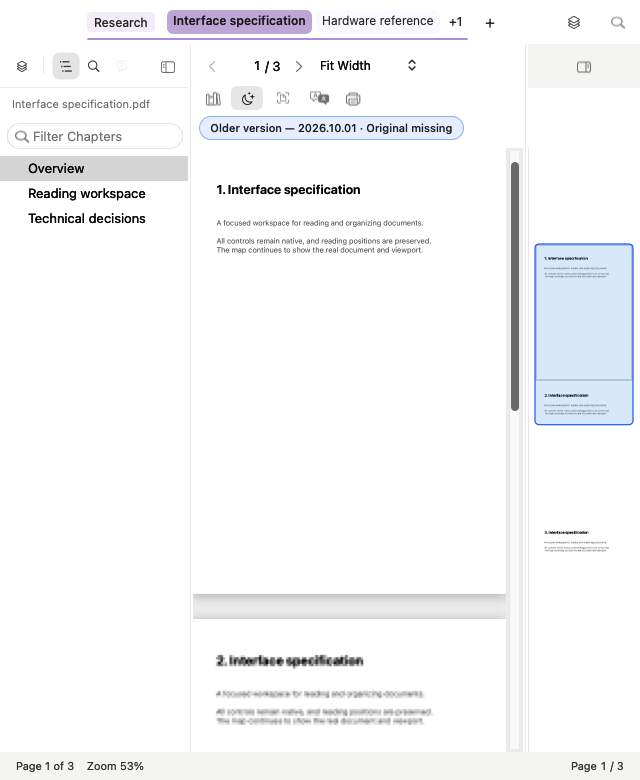
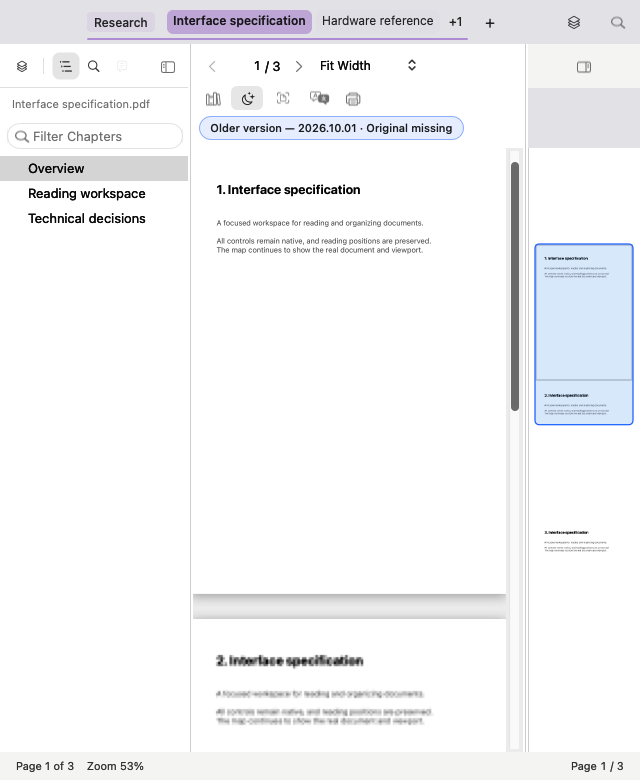
Refresh native workspace evidence with final titlebar palette
Composite offscreen views over the actual window background so headless evidence faithfully includes the shared titlebar color. All workspace probe cases pass.

Changed region(s): [[0.0, 0.0, 1.0, 0.0615], [0.8125, 0.0923, 1.0, 0.2154]]

diff --git a/portable/mac/tests/SPDFMacWorkspaceProbe.mm b/portable/mac/tests/SPDFMacWorkspaceProbe.mm
@@ -199,7 +199,7 @@ static void ForbiddenOrder(id object, SEL action, NSInteger place, NSInteger oth
         [_window.appearance performAsCurrentDrawingAppearance:^{
             [NSGraphicsContext saveGraphicsState];
             NSGraphicsContext.currentContext=[NSGraphicsContext graphicsContextWithBitmapImageRep:opaque];
-            [NSColor.windowBackgroundColor setFill]; NSRectFill(view.bounds);
+            [self->_window.backgroundColor setFill]; NSRectFill(view.bounds);
             [bitmap drawInRect:view.bounds fromRect:NSZeroRect operation:NSCompositingOperationSourceOver
                 fraction:1 respectFlipped:YES hints:nil];
             [NSGraphicsContext restoreGraphicsState];
